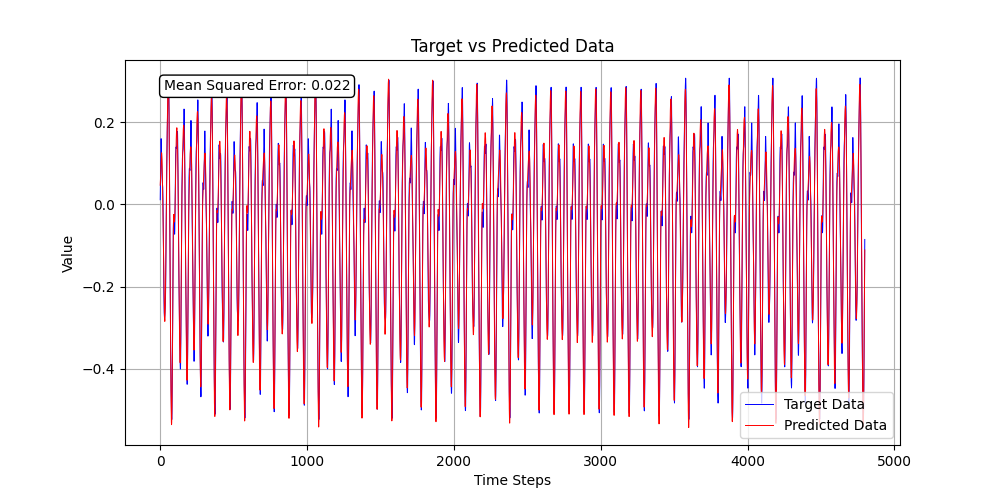
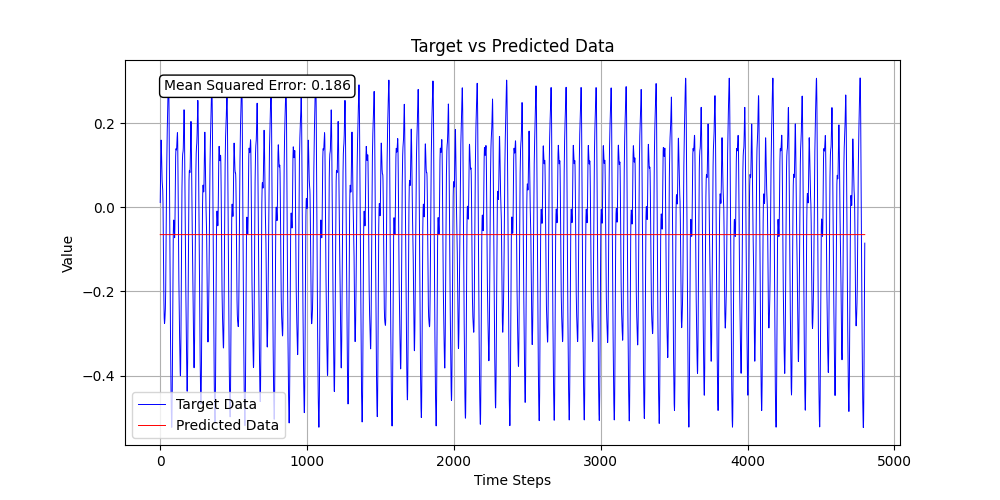
fixed lsm, got sron result, only m_ron to be fixed

Changed region(s): [[0.093, 0.15, 0.899, 0.87], [0.093, 0.72, 0.124, 0.78]]

diff --git a/spiking_arch/mackey_glass_fp.py b/spiking_arch/mackey_glass_fp.py
@@ -131,20 +131,21 @@ criterion_eval = torch.nn.L1Loss()
 @torch.no_grad()
 def test(dataset, target, classifier, scaler):
     dataset = dataset.reshape(1, -1, 1).to(device)
-    target = target.reshape(-1).numpy()
+    target = target.reshape(-1, 1).numpy()
     # activations = model(dataset)[0].cpu().numpy()
     if args.liquidron:
-        output, spk = model(dataset)
+        activations, spk = model(dataset)
     else:
         output, velocity, u, spk = model(dataset)
-    # activations = output[:, washout:]
-    activations = torch.stack(output, dim=1)[:, washout:]
-    activations = activations.reshape(-1, args.n_hid).cpu()
+        activations = torch.stack(output, dim=1)#[:, washout:]
+        
+    activations = activations[:, washout:]
+    activations = activations.reshape(-1, args.n_hid).cpu().cpu().detach().numpy()
     activations = scaler.transform(activations)
     # print('activations: \n', activations)
     predictions = classifier.predict(activations)
     # print('predictions: \n', predictions)
-    error = criterion_eval(torch.from_numpy(predictions).float(), torch.from_numpy(target).float()).item()
+    error = criterion_eval(torch.from_numpy(predictions).float(), torch.from_numpy(target).float().squeeze()).item()
     # print("Error:", error)
     # print("Predictions shape:", predictions.shape if hasattr(predictions, "shape") else type(predictions))
     return error, predictions
@@ -256,15 +257,17 @@ for i in range(args.trials):
     target = train_target.reshape(-1, 1).numpy()
     # activations = model(dataset)[0].cpu().numpy()
     if args.liquidron:
-        output, spk = model(dataset)
+        activations, spk = model(dataset)
+        # activations = output.cpu().detach().numpy()#.reshape(1, 1, -1).to(device)
+        # activations = torch.stack(output, dim=1)
+        
     else:
-        output, velocity, u, spk = model(dataset)
-    # print('output dim: ', output[0].size())
-    # activations = torch.stack(output, dim=1)
-    activations = output if isinstance(output, torch.Tensor) else torch.stack(output, dim=1)
+        output, velocity, u, spk = model(dataset)        
+        activations = torch.stack(output, dim=1)
+    # activations = output.cpu().detach() if isinstance(output, torch.Tensor) else torch.stack(output, dim=1)
     # print('activations size: ', activations.size())
     activations = activations[:, washout:]
-    activations = activations.reshape(-1, args.n_hid).cpu()
+    activations = activations.reshape(-1, args.n_hid).cpu().detach().numpy()
     scaler = preprocessing.StandardScaler().fit(activations)
     activations = scaler.transform(activations)
     classifier = Ridge(max_iter=1000).fit(activations, target)
@@ -272,7 +275,6 @@ for i in range(args.trials):
    
     mg_results(train_target, train_pred, train_nmse, args.resultroot, 'MG_train_pred.png')
     train_mse.append(train_nmse)
-    print('test dataset len: ', test_dataset.size())
     test_nmse, test_pred = (
         test(test_dataset, test_target, classifier, scaler) #if args.use_test else 0.0
     )
